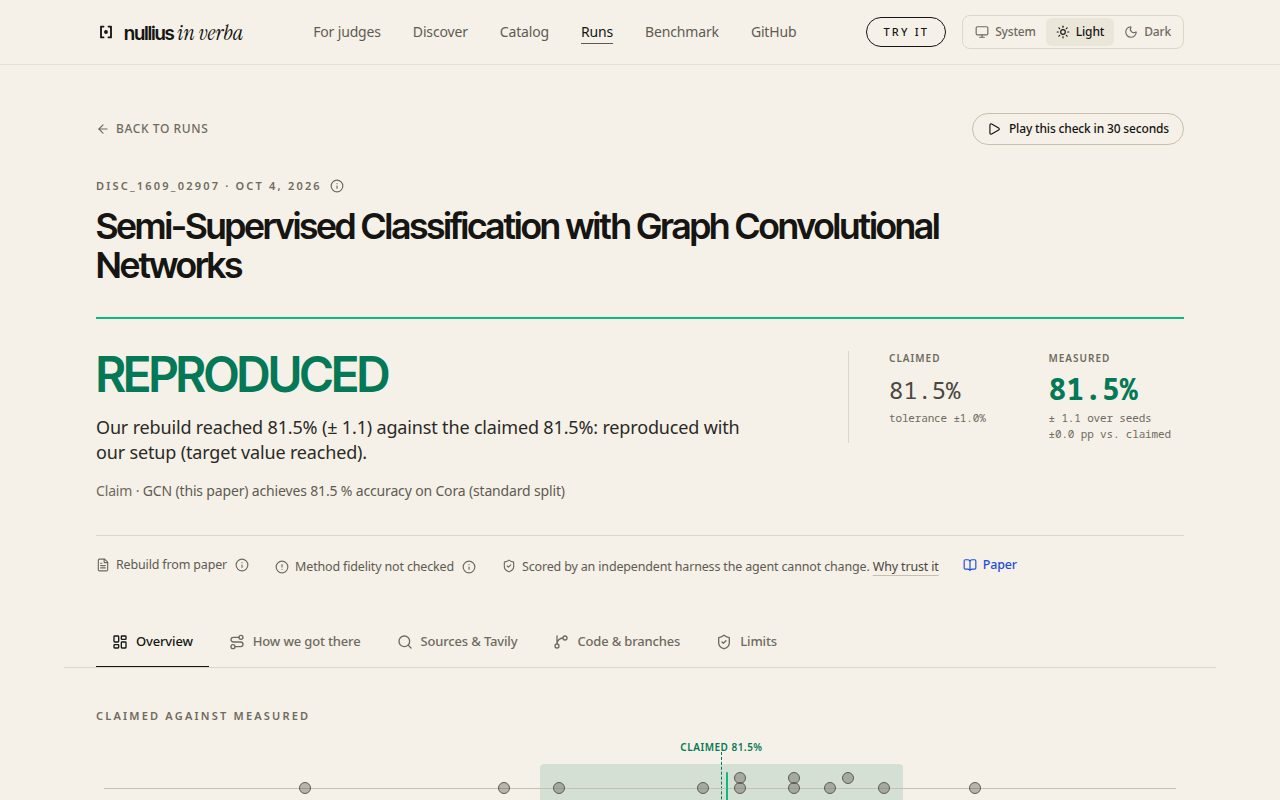
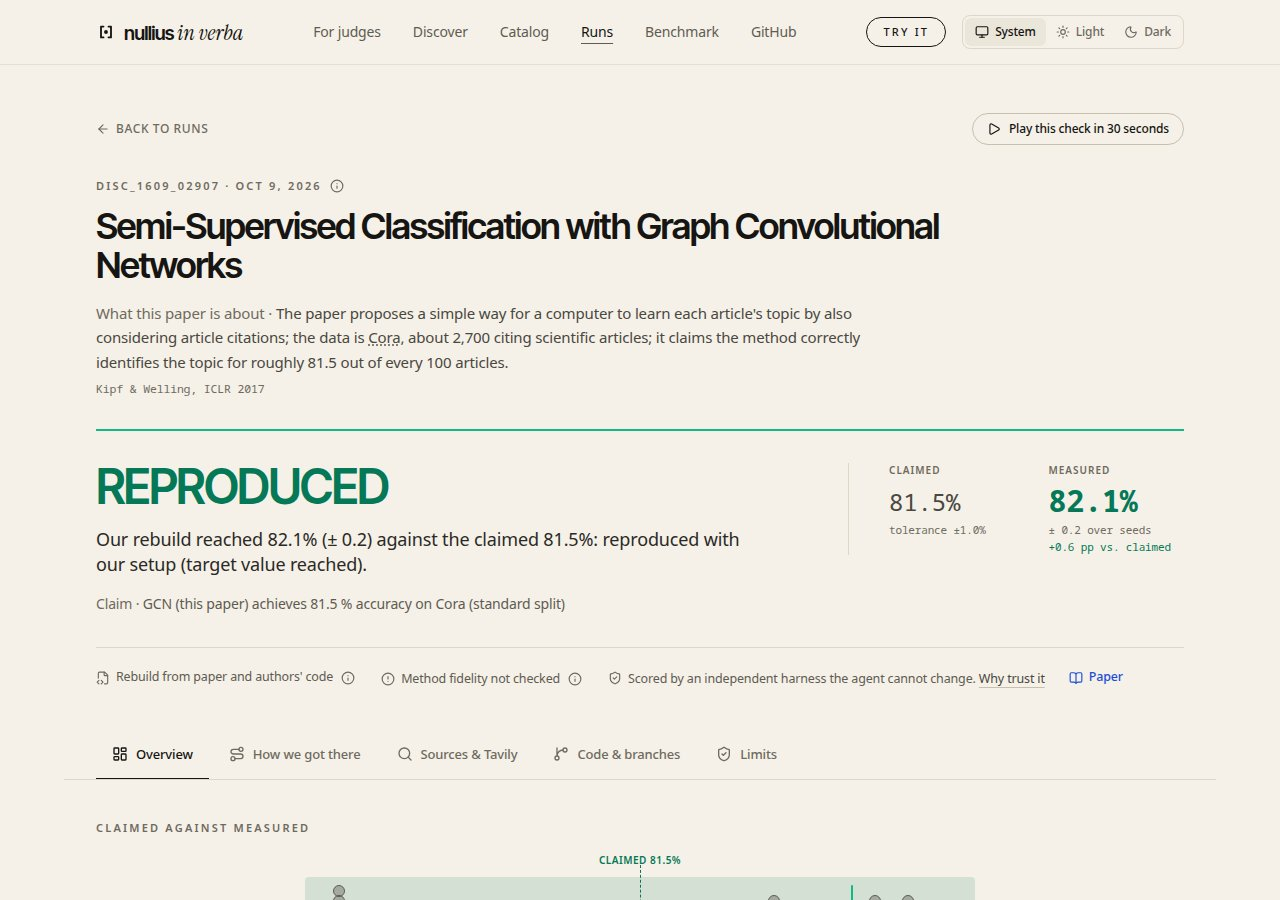
web: run page shows plain-words summary and author line under the title; discovery run ids resolve their paper head

diff --git a/web/src/components/PaperHead.tsx b/web/src/components/PaperHead.tsx
@@ -27,6 +27,23 @@ function Authors({ head, small = false }: { head: Head; small?: boolean }) {
   )
 }
 
+// Two lines for the verdict card: what the paper is about (at most two sentences) and "Wu et al., ICML 2019". Nothing is shown for a missing part.
+export function PaperByline({ head }: { head: Head | undefined }) {
+  if (!head) return null
+  const text = (head.summary ?? '').trim().split(/(?<=[.!?])\s+/).slice(0, 2).join(' ')   // decimals like 81.5 have no space after the dot
+  const sur = (a: string) => a.trim().split(/\s+/).pop()
+  const who = head.authors?.length ? (head.authors.length > 2 ? `${sur(head.authors[0])} et al.` : head.authors.map(sur).join(' & ')) : ''
+  const when = whenLine(head)
+  const line = [who, when].filter(Boolean).join(', ')
+  if (!text && !line) return null
+  return (
+    <div className="mt-4 max-w-3xl" aria-label="What this paper is about">
+      {text && <p className="m-0 text-[15px] leading-relaxed text-fg-3"><span className="text-muted">What this paper is about · </span><Glossed text={text} /></p>}
+      {line && <p className="m-0 mt-1.5 font-mono text-[11.5px] text-muted">{line}</p>}
+    </div>
+  )
+}
+
 // The head of a paper: what it is about in plain words, who wrote it, where they work. Compact: for catalog cards.
 export function PaperHead({ head, compact = false }: { head: Head | undefined; compact?: boolean }) {
   if (!head || (!head.summary && !head.authors?.length && !head.institutions?.length)) return null

diff --git a/web/src/components/RunView.tsx b/web/src/components/RunView.tsx
@@ -12,7 +12,7 @@ import { StepList } from './run/StepList'
 import { Fold, TabIntro } from './run/Fold'
 import { RunTabs } from './run/RunTabs'
 import { VerdictCard } from './run/VerdictCard'
-import { PaperHead } from './PaperHead'
+import { PaperHead, PaperByline } from './PaperHead'
 import { Film } from './film/Film'
 import { DropLast } from './DropLast'
 import { ReadmeBadge } from './ReadmeBadge'
@@ -136,6 +136,7 @@ export function RunView({ ref_, initialTab, playTimelapse = false }: { ref_: Run
             {run.ref.paper_id} · {parseDate(run.ref.timestamp)}<Hint text={INFO} />
           </div>
           <h1 className="font-grotesk m-0 mt-3 max-w-4xl text-3xl font-semibold leading-[1.08] text-fg sm:text-4xl">{run.ref.title}</h1>
+          <PaperByline head={head} />
         </header>
         <VerdictCard dossier={d} events={run.events} claim={claim} verdict={v} res={res} sentence={sentence} fmt={fmt} fmtSpread={fmtSpread} paperUrl={paperUrl}
           fidelityUnchecked={fidelityUnchecked} gesamt={ref_.gesamtaussage} isCatalog={isCatalog} notes={notes} claimText={translateClaim(claim.text)} onLimits={() => goTab('limits')} />

diff --git a/web/src/paperhead.ts b/web/src/paperhead.ts
@@ -4,6 +4,8 @@ import type { PaperSummary } from './summaries'
 // A run is found by its paper id (kipf_gcn_2017, disc_2511_08094) or by the arXiv id.
 export function findHead(all: Record<string, PaperSummary>, key: string | undefined | null): (PaperSummary & { arxiv_id: string }) | undefined {
   if (!key) return undefined
+  const m = key.match(/^disc_(\d{4})_(\d{4,5})$/)   // discovery runs are named after their arXiv id
+  if (m && all[`${m[1]}.${m[2]}`]) return { ...all[`${m[1]}.${m[2]}`], arxiv_id: `${m[1]}.${m[2]}` }
   for (const [arxivId, e] of Object.entries(all)) if (arxivId === key || e.paper_ids?.includes(key)) return { ...e, arxiv_id: arxivId }
   return undefined
 }
